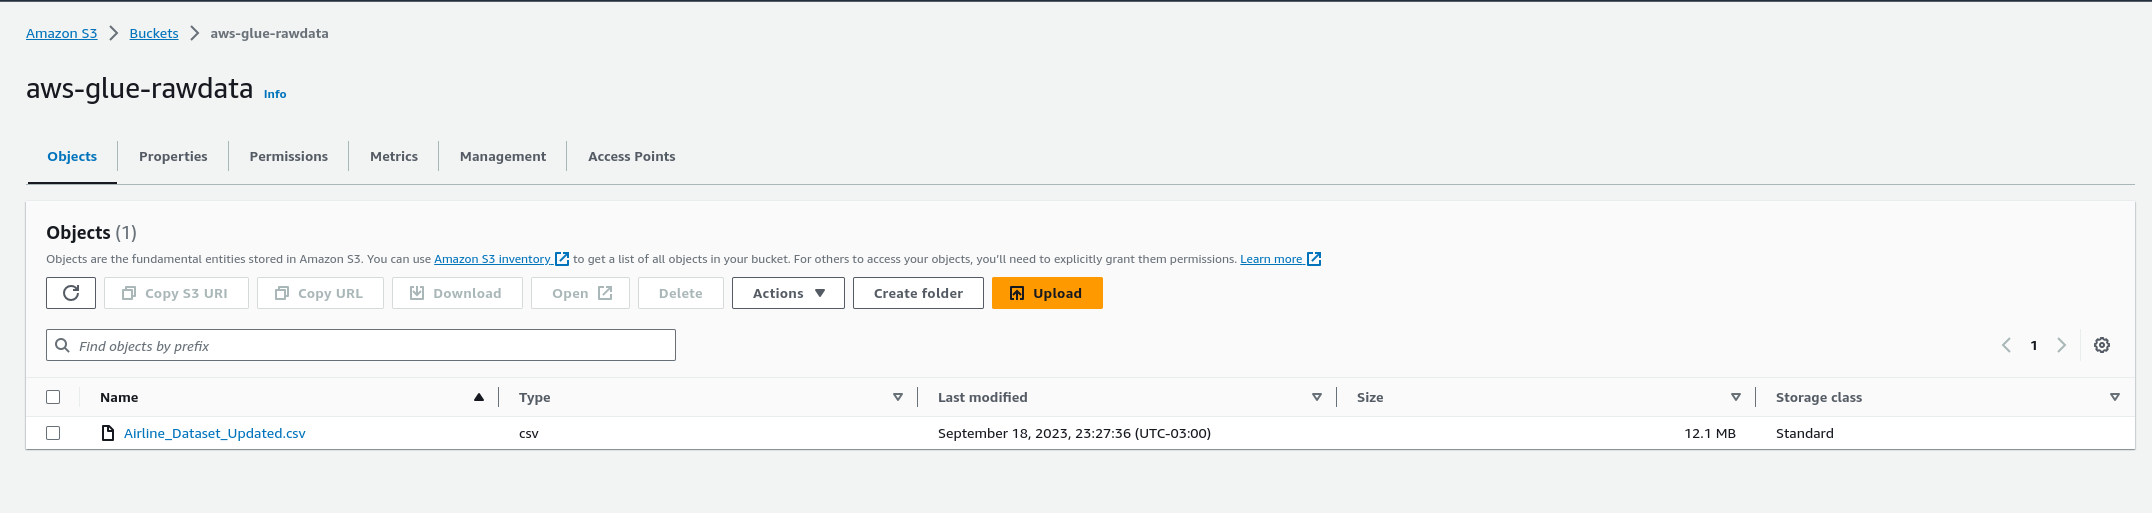
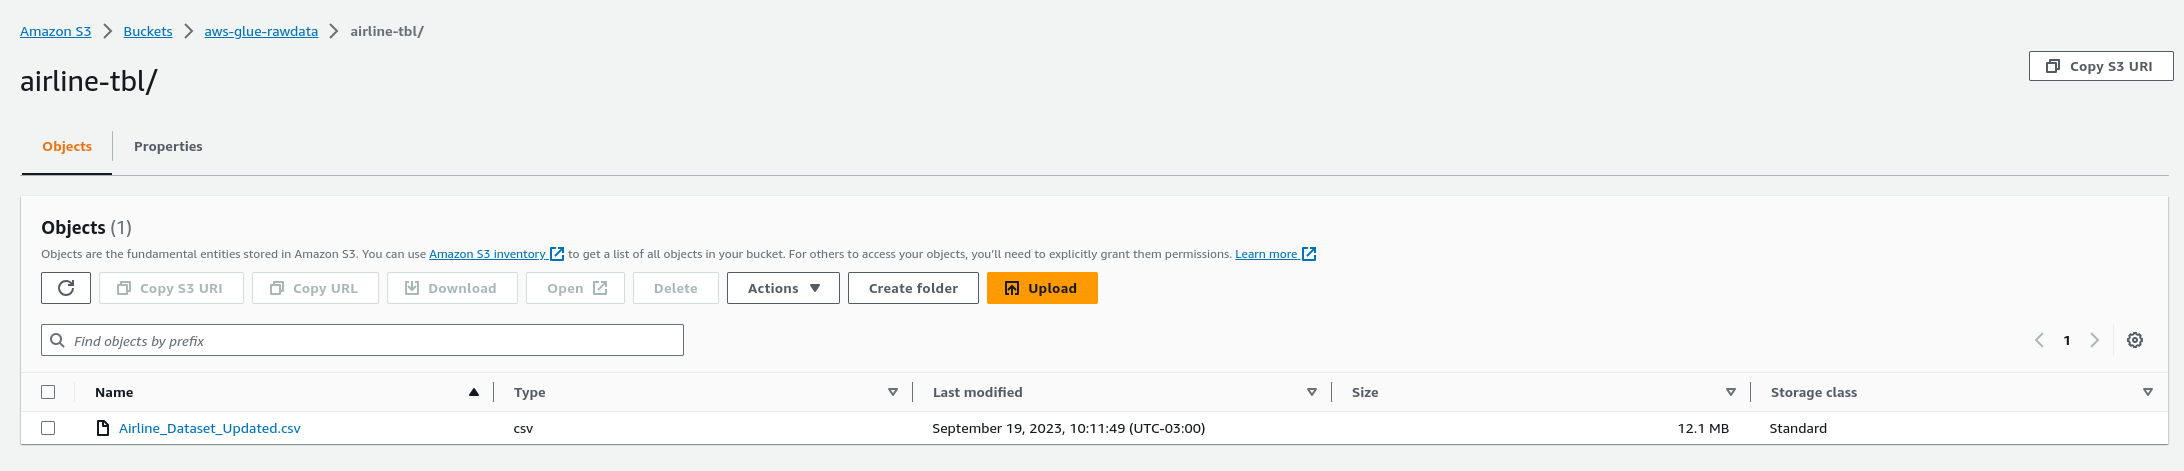
Atualizando imagens

diff --git a/engenharia-de-dados/mvp/scripts/data-collect.py b/engenharia-de-dados/mvp/scripts/data-collect.py
@@ -5,4 +5,4 @@ s3_client = boto3.client('s3', region_name='us-east-1')
 
 req = requests.get(url=f'https://raw.githubusercontent.com/pragmaerror/puc-ciencia-de-dados-e-analytics/main/engenharia-de-dados/mvp/data/Airline_Dataset_Updated.csv')
 csv_content = req.text
-s3_client.put_object(Body=csv_content, Bucket='aws-glue-rawdata', Key=f'Airline_Dataset_Updated.csv') 
+s3_client.put_object(Body=csv_content, Bucket='aws-glue-rawdata', Key=f'airline-tbl/Airline_Dataset_Updated.csv') 
